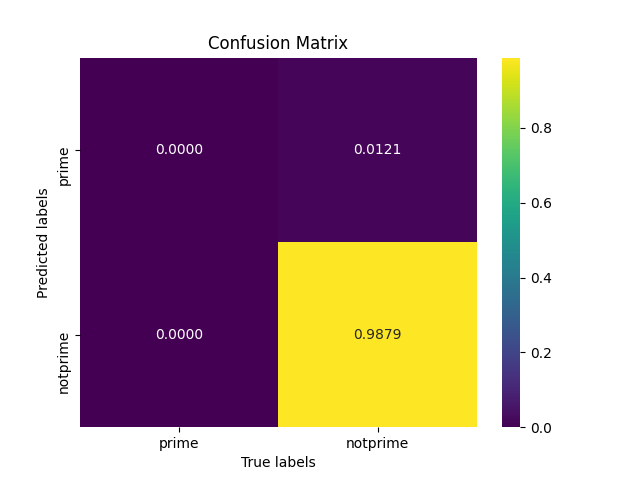
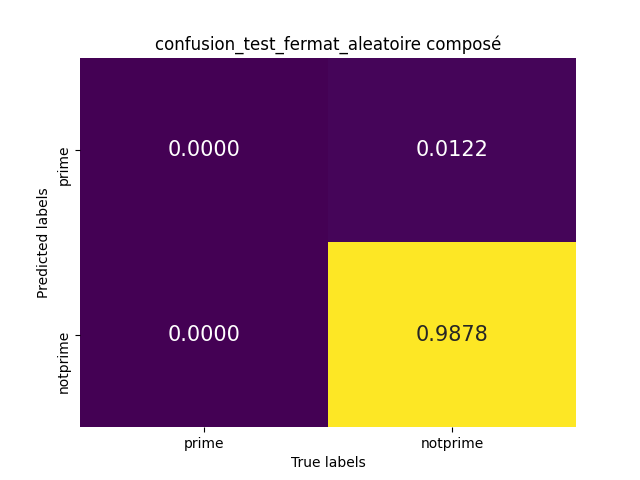
fixed some bugs

diff --git a/src/Drawer.py b/src/Drawer.py
@@ -78,10 +78,10 @@ def drawConfusionMatrix(confusion, title="confusion_matrix"):
     """
 
     ax= plt.subplot()
-    sns.heatmap(confusion, annot=True, ax = ax,fmt=".4f", cmap="viridis");
+    sns.heatmap(confusion, annot=True, ax = ax,fmt=".4f", cmap="viridis", annot_kws={"fontsize":15}, cbar=False);
     ax.set_xlabel('True labels');
     ax.set_ylabel('Predicted labels'); 
-    ax.set_title('Confusion Matrix'); 
+    ax.set_title(title); 
     ax.xaxis.set_ticklabels(['prime', 'notprime']);
     ax.yaxis.set_ticklabels(['prime', 'notprime']);
     plt.savefig(os.path.join(fp, title+".png").replace("\\","/"))

diff --git a/src/fonctions.py b/src/fonctions.py
@@ -163,21 +163,18 @@ def gen_carmichael32(N=1e5, n_facteur_max=5):
         if isCarmichael_facteurs(n, acc):
             return n
 
-def test_fermat(n, a):
+def test_fermat(n, a=None):
     """
-    n un entier impair, a un entier entre 2 et n - 1.
+    n un entier impair
 
     Retourne vrai si premier possible
     faux si composé
 
     """
-    a = random.randrange(2, n)
-    b = my_expo_mod(a, n-1, n)
+    if a == None:
+        a = random.randrange(2, n)
 
-    if b != 1:
-        return False
-
-    return True
+    return my_expo_mod(a, n-1, n) == 1
 
 
 def test_miller_rabin(n, T=10):

diff --git a/run.py b/run.py
@@ -132,7 +132,7 @@ import os
 ###Menu
 while True:
 
-    os.system('clear')
+    os.system('cls' if os.name=='nt' else 'clear')
 
     print("-1: Stop")
 
@@ -157,6 +157,6 @@ while True:
             print(f"{selected} is an invalid choice.")
             continue
         
-        os.system('clear')
+        os.system('cls' if os.name=='nt' else 'clear')
         menu[selected][1]()
         input("press any key to continue ....")
